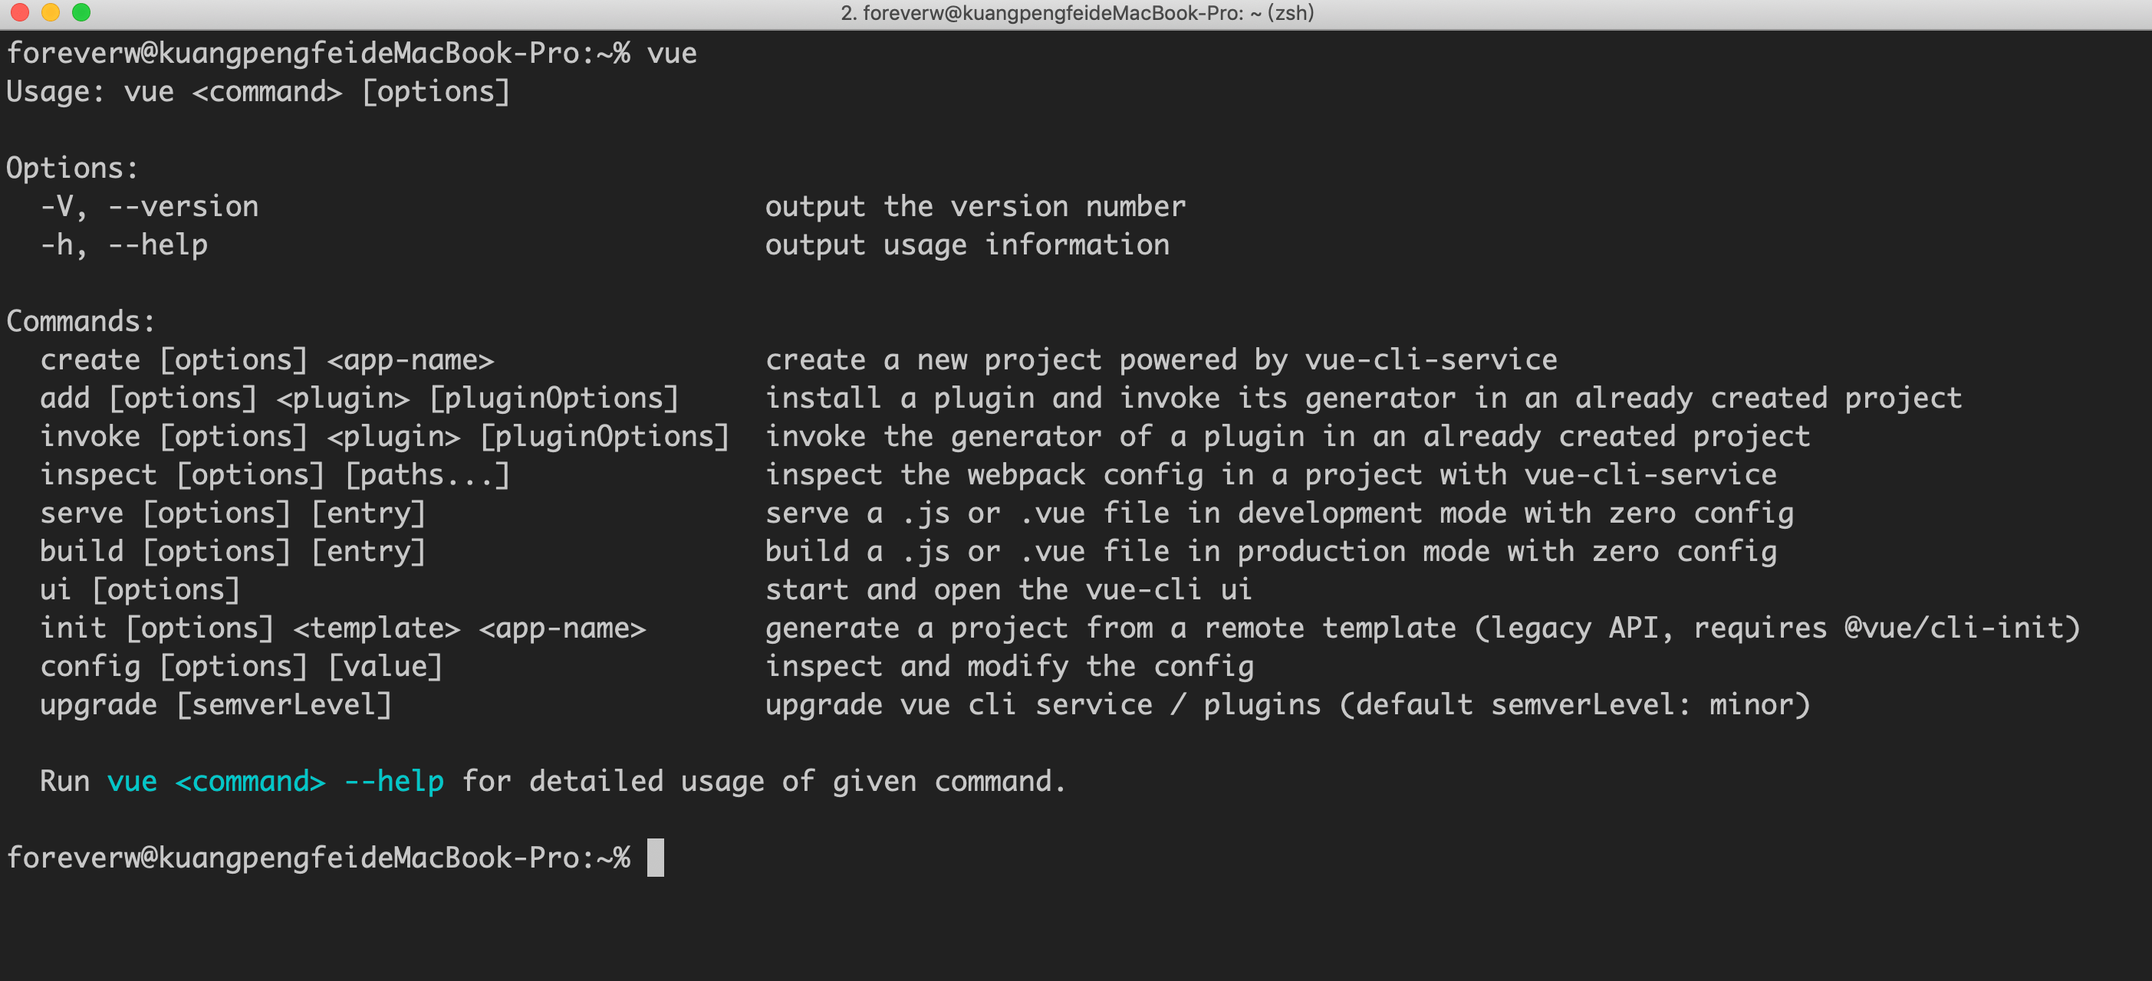
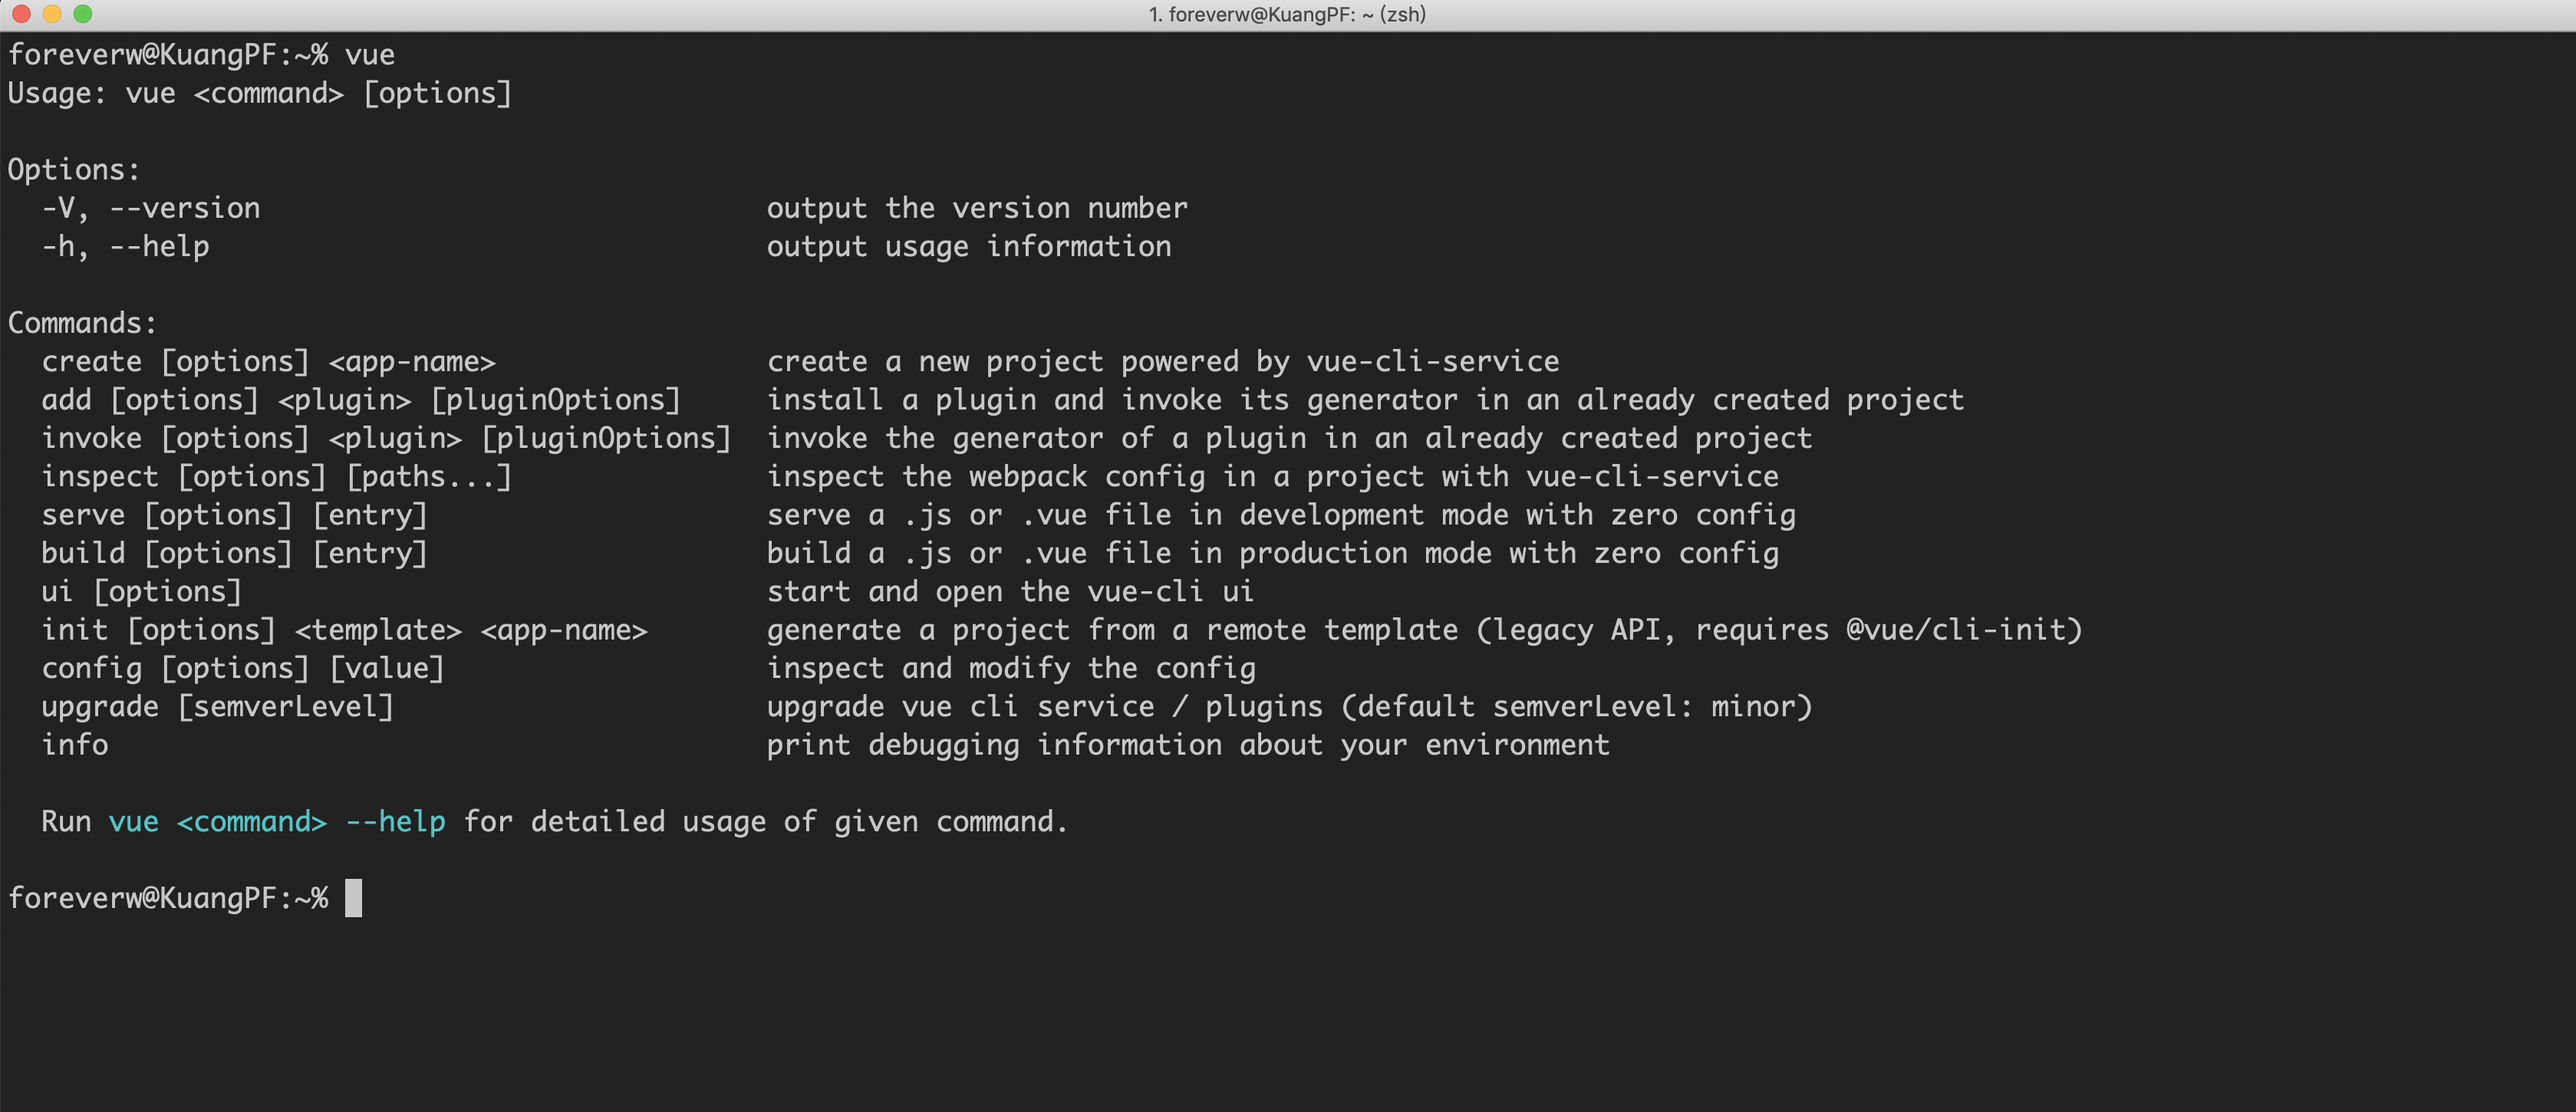
docs: update README.md

diff --git a/docs/start/env.md b/docs/start/env.md
@@ -24,7 +24,7 @@ npm install -g @vue/cli
 # OR
 yarn global add @vue/cli
 ```
-在安装 `vue-cli` 之后，执行 `vue` 命令，就可以得到上面图片中的内容，从这个图片中可以看出，`vue-cli` 一共有 `10` 种命令：
+在安装 `vue-cli` 之后，执行 `vue` 命令，就可以得到上面图片中的内容，从这个图片中可以看出，`vue-cli` 一共有 `11` 种命令：
   * create
   * add
   * invoke
@@ -35,5 +35,6 @@ yarn global add @vue/cli
   * init
   * config
   * upgrade
+  * info
 
 我们就逐个开始分析。

diff --git a/README.md b/README.md
@@ -49,7 +49,8 @@
   * [config 命令](https://kuangpf.com/vue-cli-analysis/config/)
 * **vue upgrade**
   * [upgrade 命令](https://kuangpf.com/vue-cli-analysis/upgrade/)
-
+* **vue info**
+  * [info 命令](https://kuangpf.com/vue-cli-analysis/info/)
 
 ### @vue/cli-service
 

diff --git a/docs/README.md b/docs/README.md
@@ -49,7 +49,8 @@
   * [config 命令](https://kuangpf.com/vue-cli-analysis/config/)
 * **vue upgrade**
   * [upgrade 命令](https://kuangpf.com/vue-cli-analysis/upgrade/)
-
+* **vue info**
+  * [info 命令](https://kuangpf.com/vue-cli-analysis/info/)
 
 ### @vue/cli-service
 
